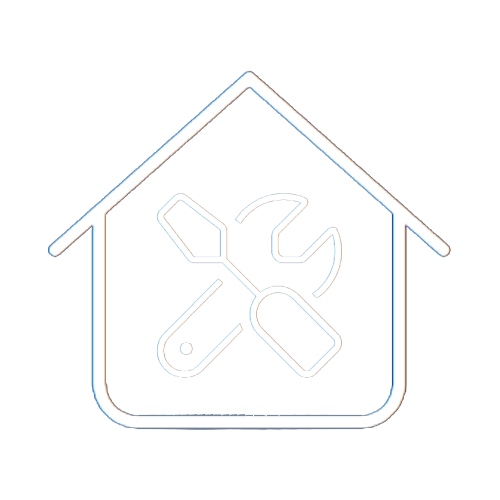
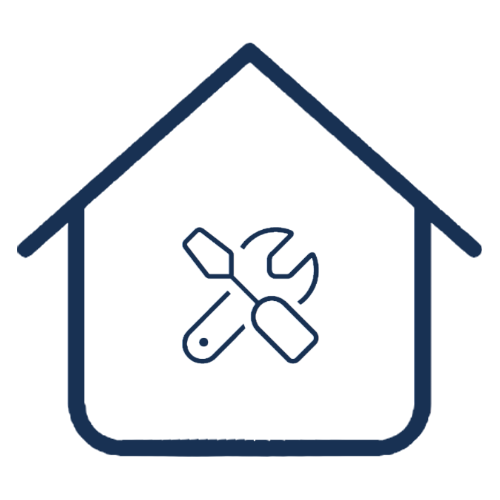
loading screen try, but not perfect

diff --git a/src/components/ConfigSetup.vue b/src/components/ConfigSetup.vue
@@ -65,7 +65,12 @@
 
     <div v-if="!additionalObjectsLoaded" class="loadingScreen">
       <!-- Loading screen or indicator -->
-      Konfigurator lädt... //Hier Loading screen Design
+      <img src="/PRO5/public/icon_house.png" alt="loading_icon" class="logooutside"/>
+      <img src="/PRO5/public/icon_inside.png" alt="loading_icon" class="logoinside"/>
+      
+      <p class="loadingScreenText">Konfigurator lädt...</p>
+      
+
     </div>
 
 
@@ -1424,17 +1429,53 @@ function changeOneTexture(index, object) {
   margin-bottom: 20px;
 }
 
-.loadingScreen{
+.loadingScreen {
   width: 100%;
-    background-color: white;
-    height: 100%;
-    position: absolute;
-    top: 0;
-    left: 0;
-    align-items: center;
-    display: flex;
-    justify-content: center;
+  background-color: white;
+  height: 100%;
+  position: absolute;
+  top: 0;
+  left: 0;
+  align-items: center;
+  display: flex;
+  justify-content: center;
 }
+
+.logooutside {
+  height: 150px;
+  width: auto;
+  position: absolute;
+  top: 50%;
+  left: 50%;
+  transform: translate(-50%, -50%);
+  z-index: 1; /* Stellen Sie sicher, dass es über dem Text liegt */
+}
+
+.logoinside {
+  height: 120px;
+  width: auto;
+  position: absolute;
+  top: 50%;
+  left: 50%;
+  transform: translate(-50%, -50%) rotate(0); /* Rotation hinzufügen */
+  animation: spin 2s infinite ease-in-out;
+  z-index: 2; /* Stellen Sie sicher, dass es über logooutside liegt */
+}
+
+@keyframes spin {
+  0% {
+    transform: translate(-50%, -50%) rotate(0);
+  }
+  100% {
+    transform: translate(-50%, -50%) rotate(360deg);
+  }
+}
+
+.loadingScreenText {
+  /* Stellen Sie sicher, dass der Text über den Bildern liegt */
+  margin-top: 170px; /* Passen Sie den Abstand nach Bedarf an */
+}
+
 
 h1 {
   font-weight: 800;
@@ -1661,4 +1702,7 @@ font-awesome-icon {
   display: flex;
   flex-direction: column;
 }
+
+
+
 </style>
